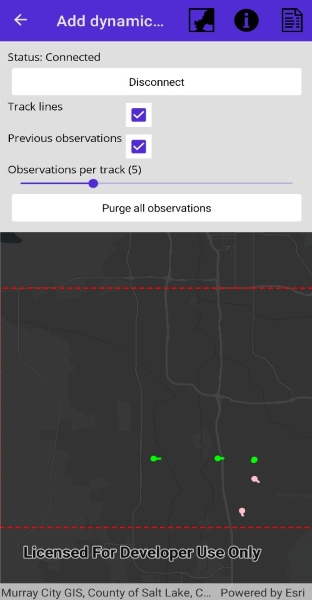
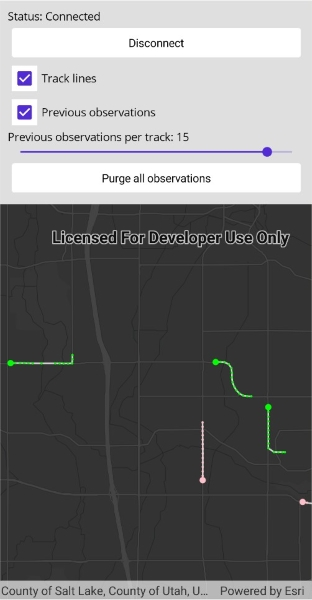
(WinUI, MAUI) UI improvements from feedback

diff --git a/src/MAUI/Maui.Samples/Samples/Layers/AddDynamicEntityLayer/AddDynamicEntityLayer.xaml b/src/MAUI/Maui.Samples/Samples/Layers/AddDynamicEntityLayer/AddDynamicEntityLayer.xaml
@@ -23,26 +23,26 @@
                         <RowDefinition Height="auto" />
                         <RowDefinition Height="auto" />
                     </Grid.RowDefinitions>
-                    <Label Grid.Row="0"
-                           Grid.Column="0"
-                           Text="Track lines" />
                     <CheckBox Grid.Row="0"
-                              Grid.Column="1"
+                              Grid.Column="0"
                               Margin="5"
                               CheckedChanged="LineVisibilityCheckbox_Checked"
                               IsChecked="True" />
-                    <Label Grid.Row="1"
-                           Grid.Column="0"
-                           Text="Previous observations" />
+                    <Label Grid.Row="0"
+                           Grid.Column="1"
+                           Text="Track lines"
+                           VerticalTextAlignment="Center" />
                     <CheckBox Grid.Row="1"
-                              Grid.Column="1"
+                              Grid.Column="0"
                               Margin="5"
                               CheckedChanged="EntityVisibilityCheckbox_Checked"
                               IsChecked="True" />
+                    <Label Grid.Row="1"
+                           Grid.Column="1"
+                           Text="Previous observations"
+                           VerticalTextAlignment="Center" />
                 </Grid>
-                <Label BindingContext="{x:Reference EntitiesSlider}"
-                       Text="{Binding Value, StringFormat='Observations per track ({0})'}"
-                       VerticalOptions="Center" />
+                <Label x:Name="previousObservationsLabel" Text="Previous observations per track: 5" />
                 <Slider x:Name="EntitiesSlider"
                         Grid.Column="1"
                         Maximum="16"

diff --git a/src/WinUI/ArcGIS.WinUI.Viewer/Samples/Layers/AddDynamicEntityLayer/AddDynamicEntityLayer.xaml b/src/WinUI/ArcGIS.WinUI.Viewer/Samples/Layers/AddDynamicEntityLayer/AddDynamicEntityLayer.xaml
@@ -1,7 +1,6 @@
 <UserControl x:Class="ArcGIS.WinUI.Samples.AddDynamicEntityLayer.AddDynamicEntityLayer"
              xmlns="http://schemas.microsoft.com/winfx/2006/xaml/presentation"
              xmlns:x="http://schemas.microsoft.com/winfx/2006/xaml"
-             xmlns:esri="using:Esri.ArcGISRuntime"
              xmlns:esriUI="using:Esri.ArcGISRuntime.UI.Controls">
     <Grid>
         <esriUI:MapView x:Name="MyMapView" />
@@ -22,12 +21,14 @@
                           Content="Previous observations"
                           IsChecked="True"
                           Unchecked="EntityVisibilityCheckbox_Checked" />
+                <TextBlock Grid.Column="0" Text="Previous observations per track:" />
                 <Grid>
                     <Grid.ColumnDefinitions>
                         <ColumnDefinition Width="0.2*" />
                         <ColumnDefinition Width="*" />
                     </Grid.ColumnDefinitions>
-                    <TextBlock Width="155"
+                    <TextBlock Grid.Column="0"
+                               HorizontalAlignment="Center"
                                VerticalAlignment="Center"
                                Text="{Binding ElementName=EntitiesSlider, Path=Value}" />
                     <Slider Name="EntitiesSlider"

diff --git a/src/MAUI/Maui.Samples/Samples/Layers/AddDynamicEntityLayer/AddDynamicEntityLayer.xaml.cs b/src/MAUI/Maui.Samples/Samples/Layers/AddDynamicEntityLayer/AddDynamicEntityLayer.xaml.cs
@@ -145,6 +145,7 @@ namespace ArcGIS.Samples.AddDynamicEntityLayer
             if (_dynamicEntityLayer != null)
             {
                 _dynamicEntityLayer.TrackDisplayProperties.MaximumObservations = (int)e.NewValue;
+                previousObservationsLabel.Text = String.Format("Previous observations per track: {0}", Math.Round(e.NewValue).ToString());
             }
         }
 
